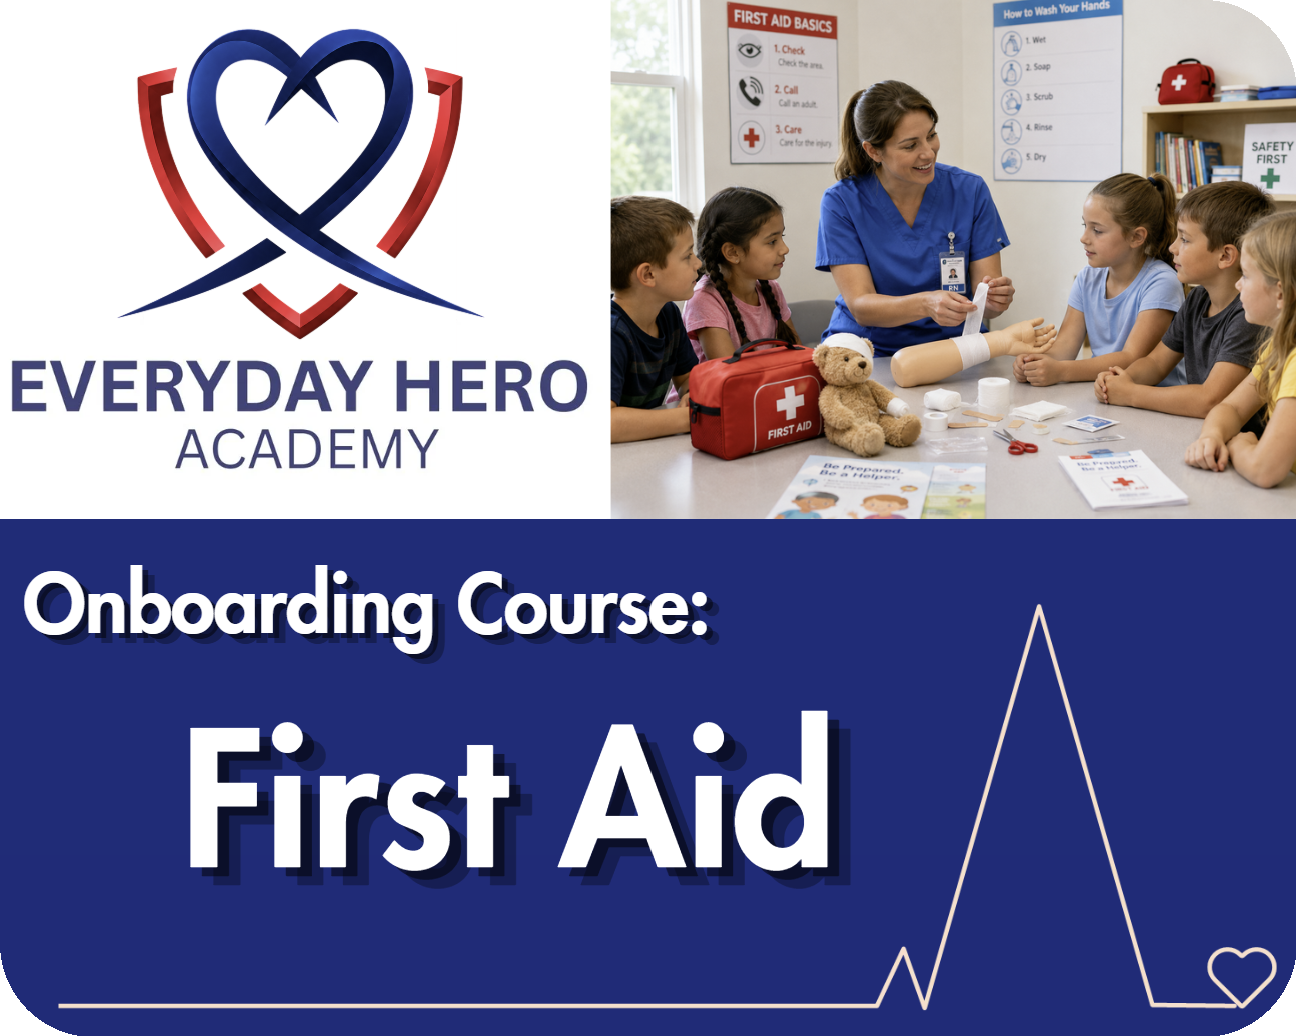
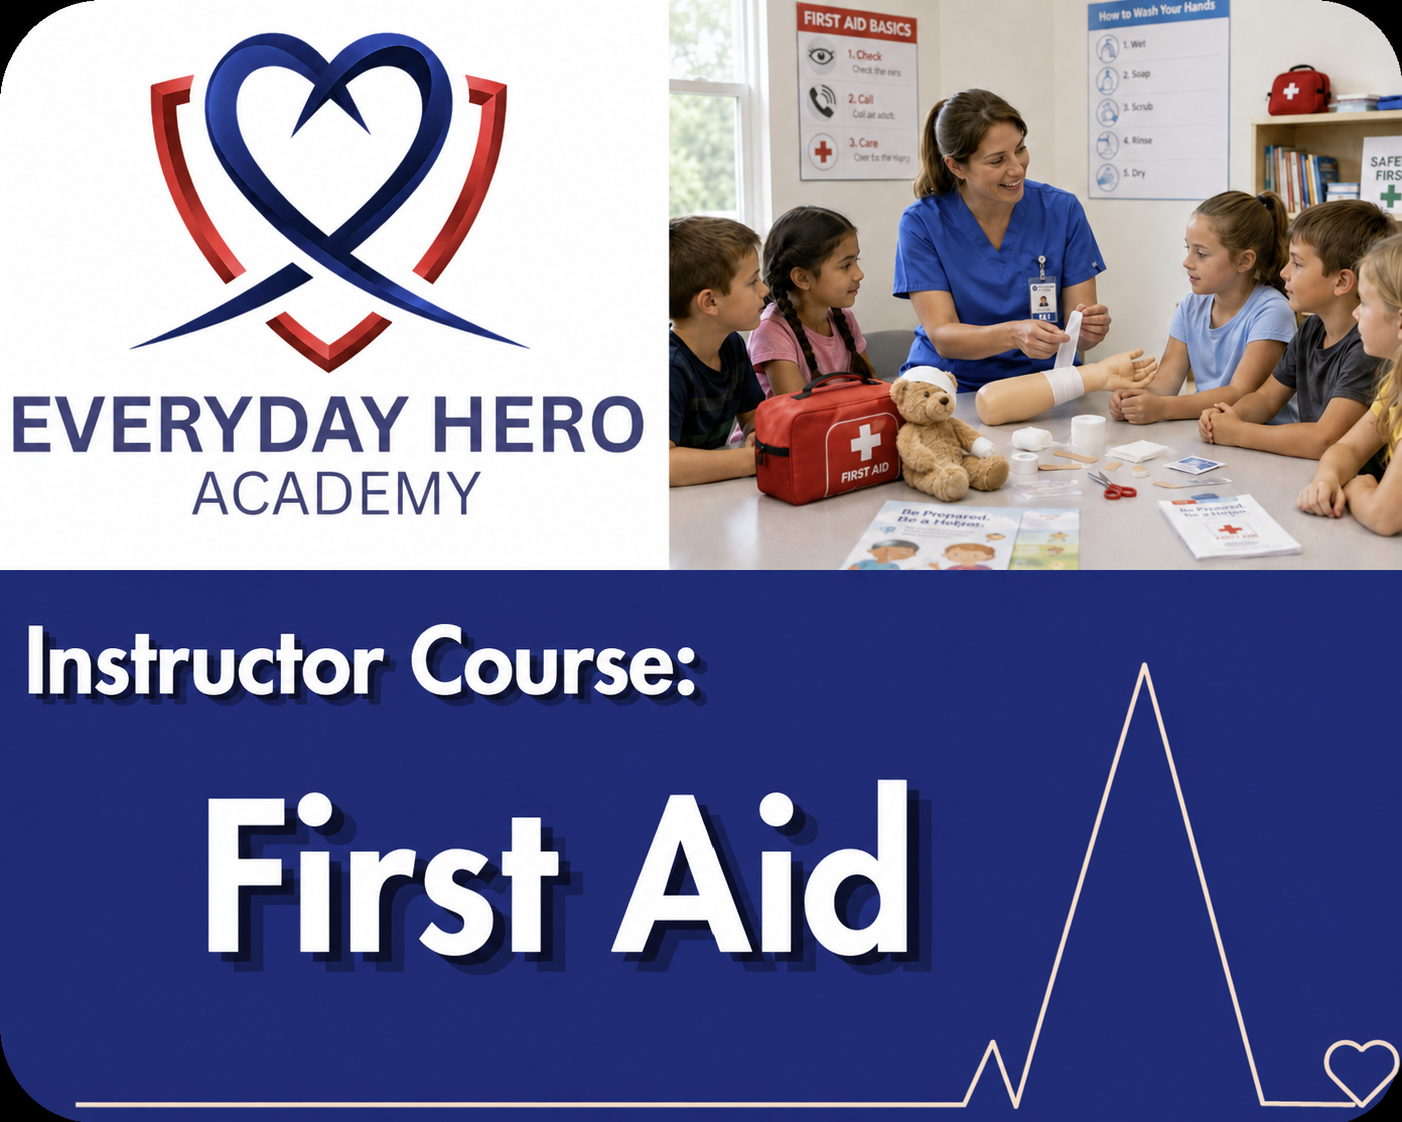
v2.2.0: Replace FA thumbnail, show full uncropped images at smaller size

diff --git a/src/components/Sidebar.tsx b/src/components/Sidebar.tsx
@@ -530,7 +530,7 @@ export const Sidebar = React.memo(function Sidebar({
                         <img 
                           src="/CPRAEDOnboardingCover.png" 
                           alt="CPR &amp; AED Instructor Course" 
-                          className="w-full aspect-video rounded-lg object-cover border border-white/10 group-hover/card:border-eh-red/30 transition-colors mb-3"
+                          className="w-4/5 mx-auto rounded-lg object-contain border border-white/10 group-hover/card:border-eh-red/30 transition-colors mb-3"
                         />
                         <h4 className="text-[14px] font-bold text-eh-peach group-hover/card:text-white transition-colors leading-snug mb-1">
                           CPR &amp; AED Instructor Course
@@ -556,7 +556,7 @@ export const Sidebar = React.memo(function Sidebar({
                         <img 
                           src="/FAOnboardingCover.png" 
                           alt="First Aid Instructor Course" 
-                          className="w-full aspect-video rounded-lg object-cover border border-white/10 group-hover/card:border-eh-red/30 transition-colors mb-3"
+                          className="w-4/5 mx-auto rounded-lg object-contain border border-white/10 group-hover/card:border-eh-red/30 transition-colors mb-3"
                         />
                         <h4 className="text-[14px] font-bold text-eh-peach group-hover/card:text-white transition-colors leading-snug mb-1">
                           First Aid Instructor Course
